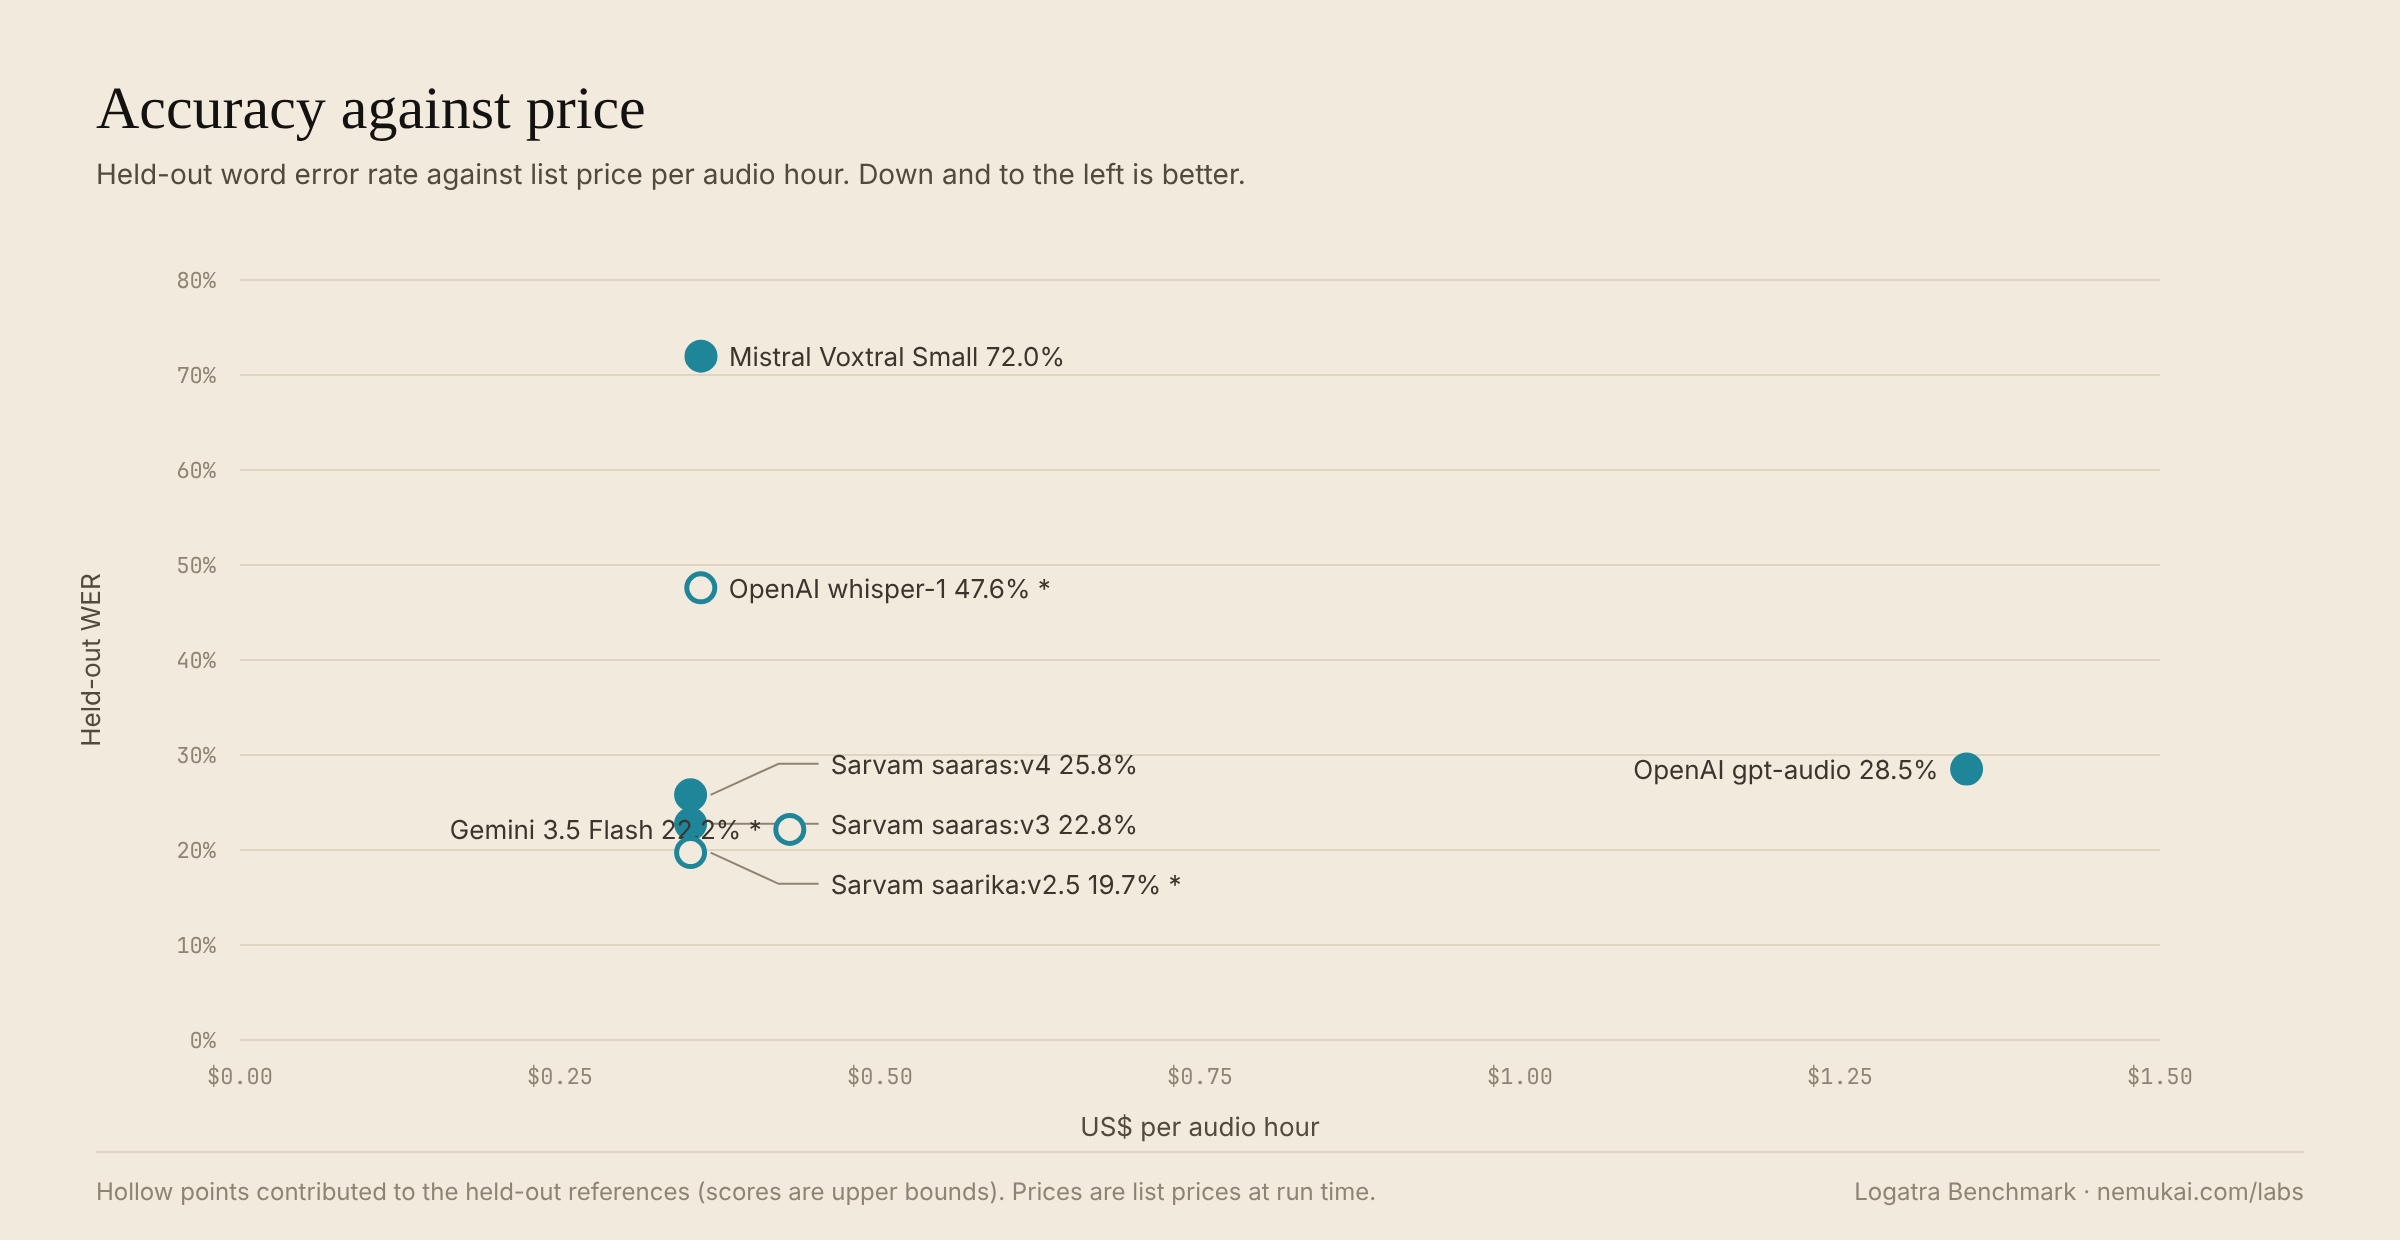
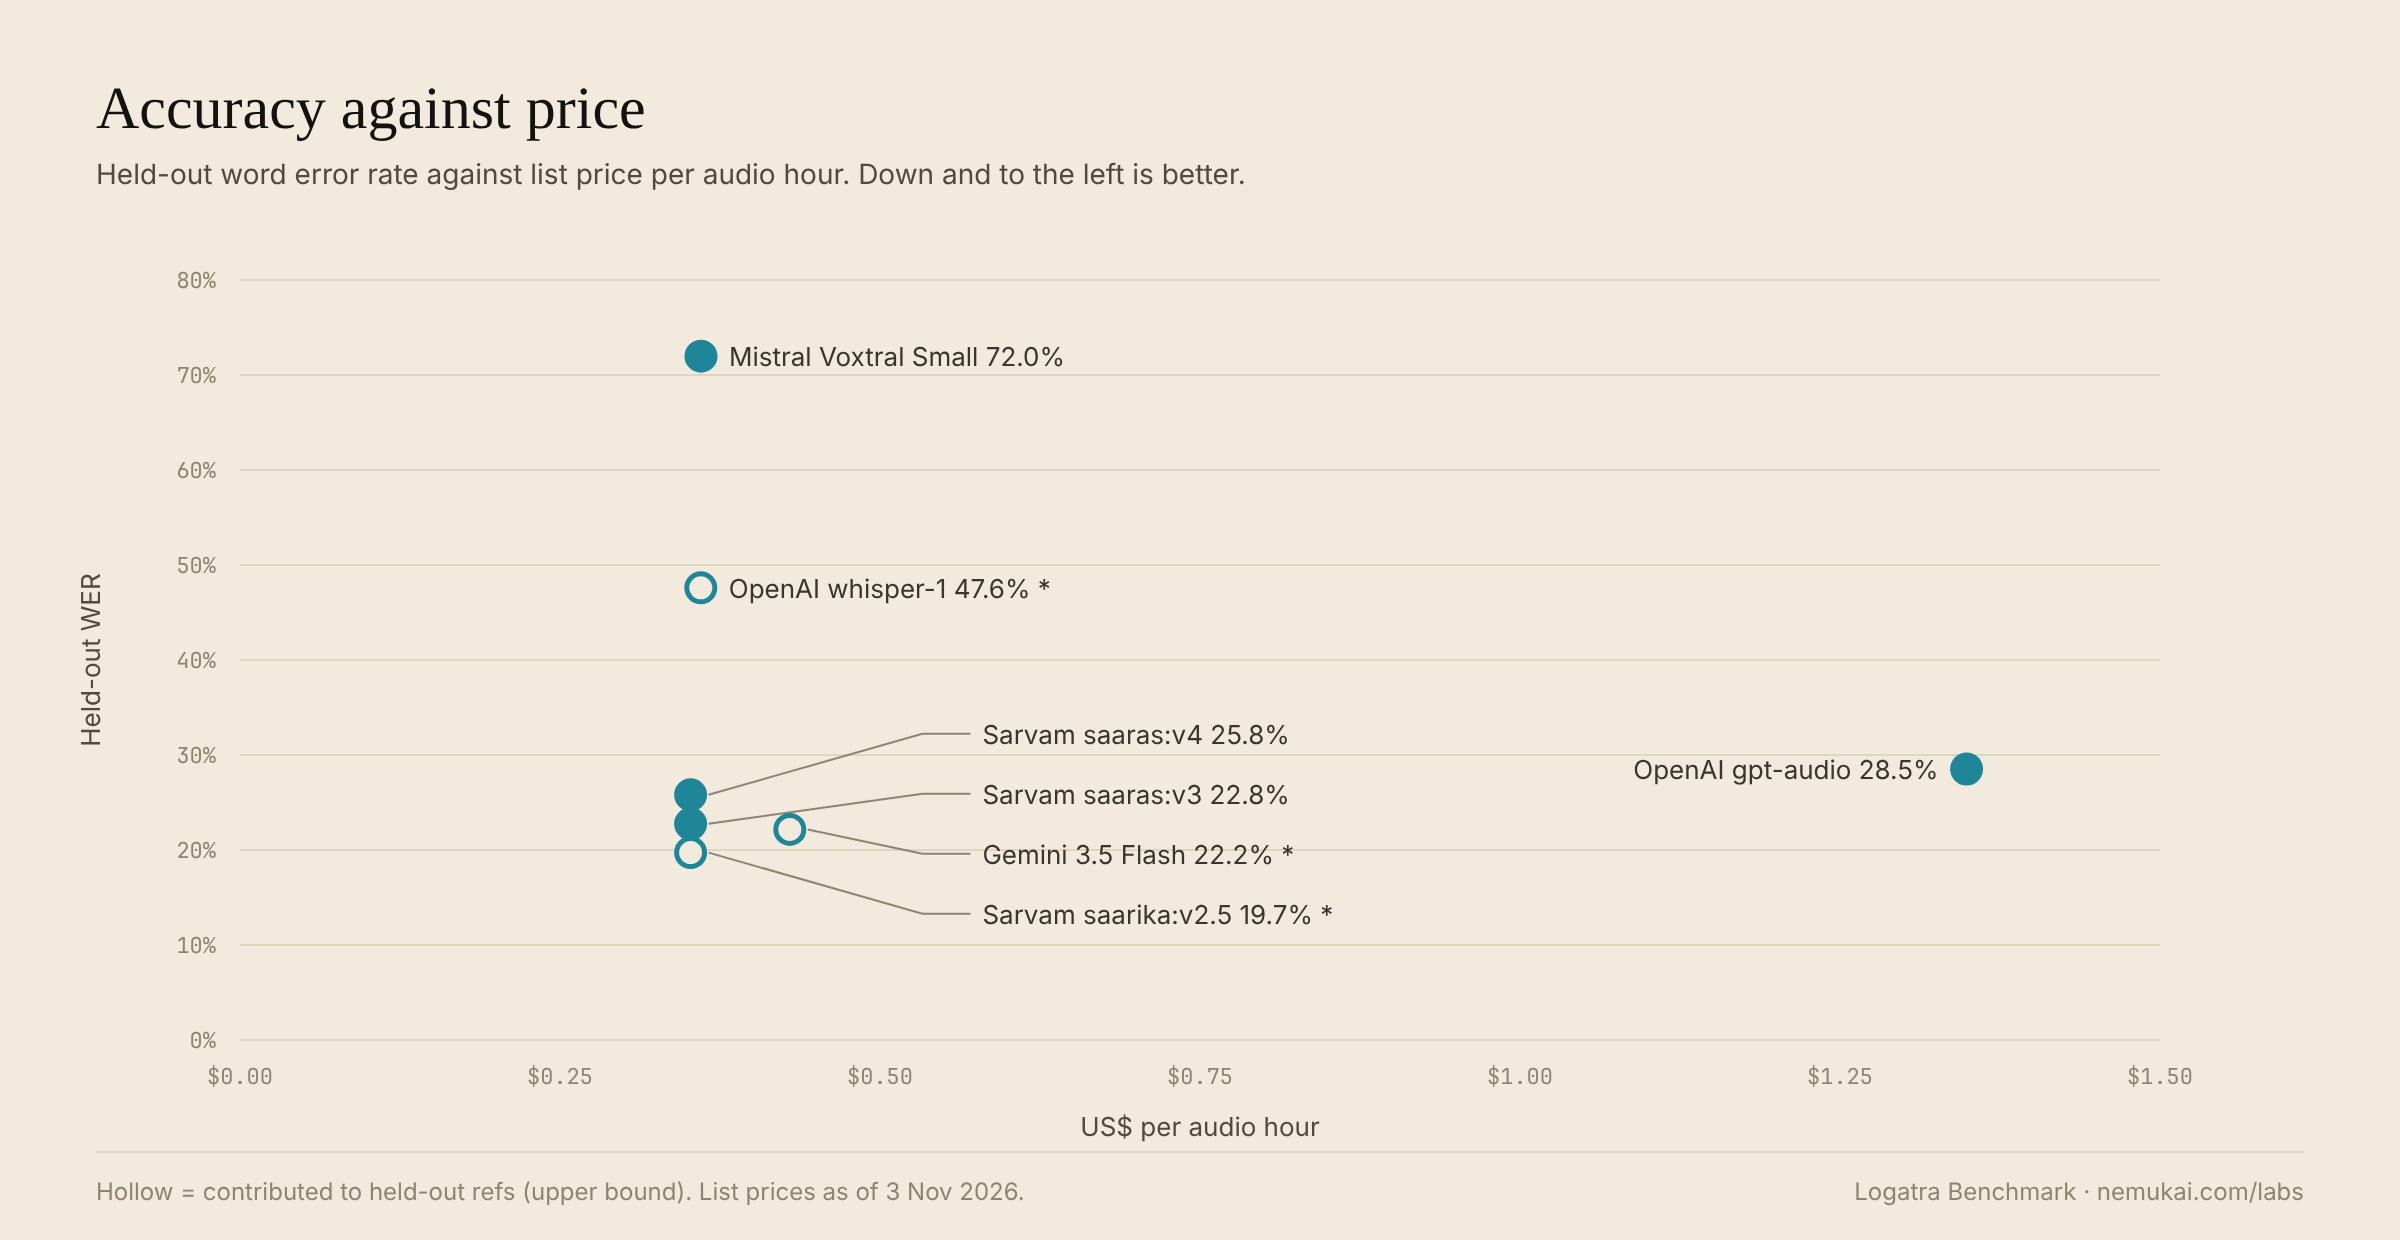
Fix label collisions in the accuracy-vs-price figure

Changed region(s): [[0.1875, 0.5823, 0.5312, 0.7661], [0.0625, 0.95, 0.5625, 0.9806]]

diff --git a/scripts/hf_figures.py b/scripts/hf_figures.py
@@ -165,10 +165,12 @@ def cost_vs_accuracy(d: dict) -> str:
     body += text(px + pw / 2, py + ph + 48, "US$ per audio hour", 13, MUTED, anchor="middle")
     body += text(px - 70, py + ph / 2, "Held-out WER", 13, MUTED, anchor="middle",
                  extra=f'transform="rotate(-90 {px - 70} {py + ph / 2})"')
-    # (dx, label baseline offset from the saaras:v3 point or None for own point)
-    placement = {"sarvam-saaras": (70, 0), "sarvam-saaras-v4": (70, -30), "sarvam": (70, 30),
-                 "gemini": (-14, None), "gpt-audio": (-14, None), "whisper": (14, None), "voxtral": (14, None)}
+    # Engines clustered near the same price get callout labels stacked in a
+    # column to the right of the cluster; outliers are labelled beside the point.
+    callout = {"sarvam-saaras-v4": -45, "sarvam-saaras": -15, "gemini": 15, "sarvam": 45}
+    beside = {"gpt-audio": -14, "whisper": 14, "voxtral": 14}
     anchor_y = py + ph - c["sarvam-saaras|heldout"]["wer"] / ymax * ph
+    label_x = px + 0.58 / xmax * pw
     for key, name in SYSTEMS:
         m = c[f"{key}|heldout"]
         cx = px + m["cost_usd_per_hour"] / xmax * pw
@@ -176,16 +178,17 @@ def cost_vs_accuracy(d: dict) -> str:
         self_ref = m["self_ref_rate"] > 0.01
         fill = SAND if self_ref else KAI
         body += f'<circle cx="{cx:.1f}" cy="{cy:.1f}" r="7" fill="{fill}" stroke="{KAI}" stroke-width="2.5"/>'
-        dx, off = placement[key]
-        anchor = "start" if dx > 0 else "end"
-        ly = cy + 5 if off is None else anchor_y + off + 5
-        if off is not None:
-            body += (f'<polyline points="{cx + 10:.1f},{cy:.1f} {cx + dx - 26:.1f},{ly - 5:.1f} {cx + dx - 6:.1f},{ly - 5:.1f}" '
+        label = f"{name}  {pct(m['wer'])}{' *' if self_ref else ''}"
+        if key in callout:
+            ly = anchor_y + callout[key]
+            body += (f'<polyline points="{cx + 9:.1f},{cy:.1f} {label_x - 30:.1f},{ly:.1f} {label_x - 6:.1f},{ly:.1f}" '
                      f'fill="none" stroke="{SUBTLE}" stroke-width="1"/>')
-        body += text(cx + dx, ly, f"{name}  {pct(m['wer'])}{' *' if self_ref else ''}", 13, INK2,
-                     anchor=anchor)
-    body += footer(w, h, "Hollow points contributed to the held-out references (scores are upper bounds). "
-                         "Prices are list prices at run time.")
+            body += text(label_x, ly + 5, label, 13, INK2, anchor="start")
+        else:
+            dx = beside[key]
+            body += text(cx + dx, cy + 5, label, 13, INK2, anchor="start" if dx > 0 else "end")
+    body += footer(w, h, "Hollow = contributed to held-out refs (upper bound). "
+                         "List prices as of 3 Nov 2026.")
     return svg(w, h, body)
 
 
